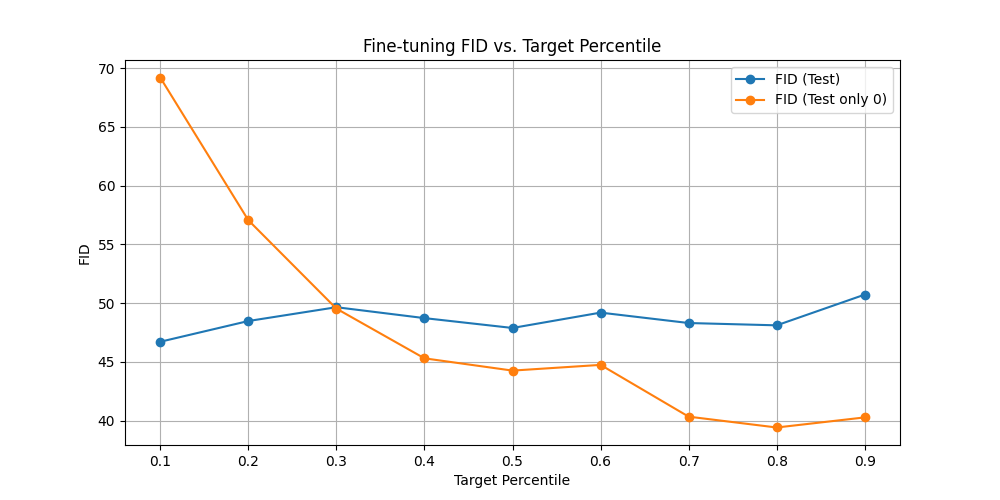
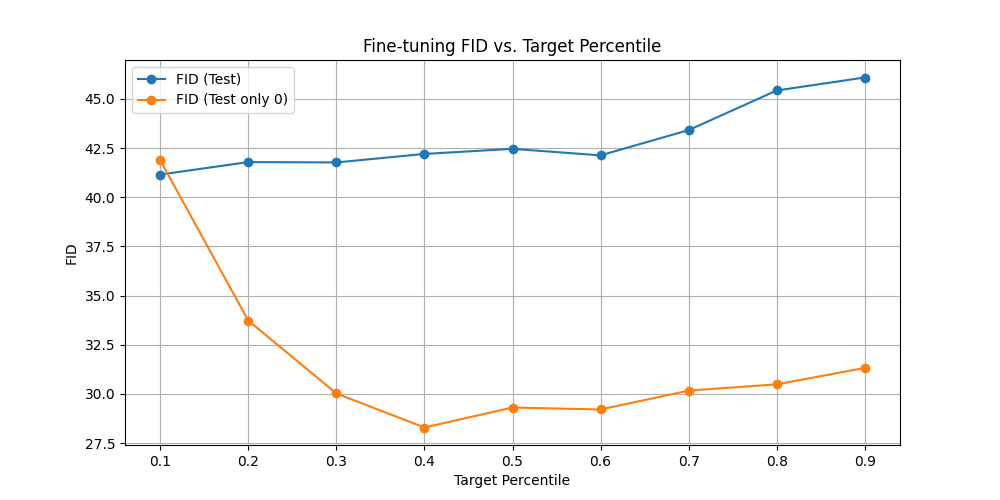
dw abt it

diff --git a/dataset.py b/dataset.py
@@ -10,7 +10,7 @@ transform_pipeline = transforms.Compose([
 ])
 
 FILTER_ZERO = True
-N_TRAIN = 512
+N_TRAIN = 2048
 
 
 def get_train_dataset(filter_override=False, invert_filter=False):
